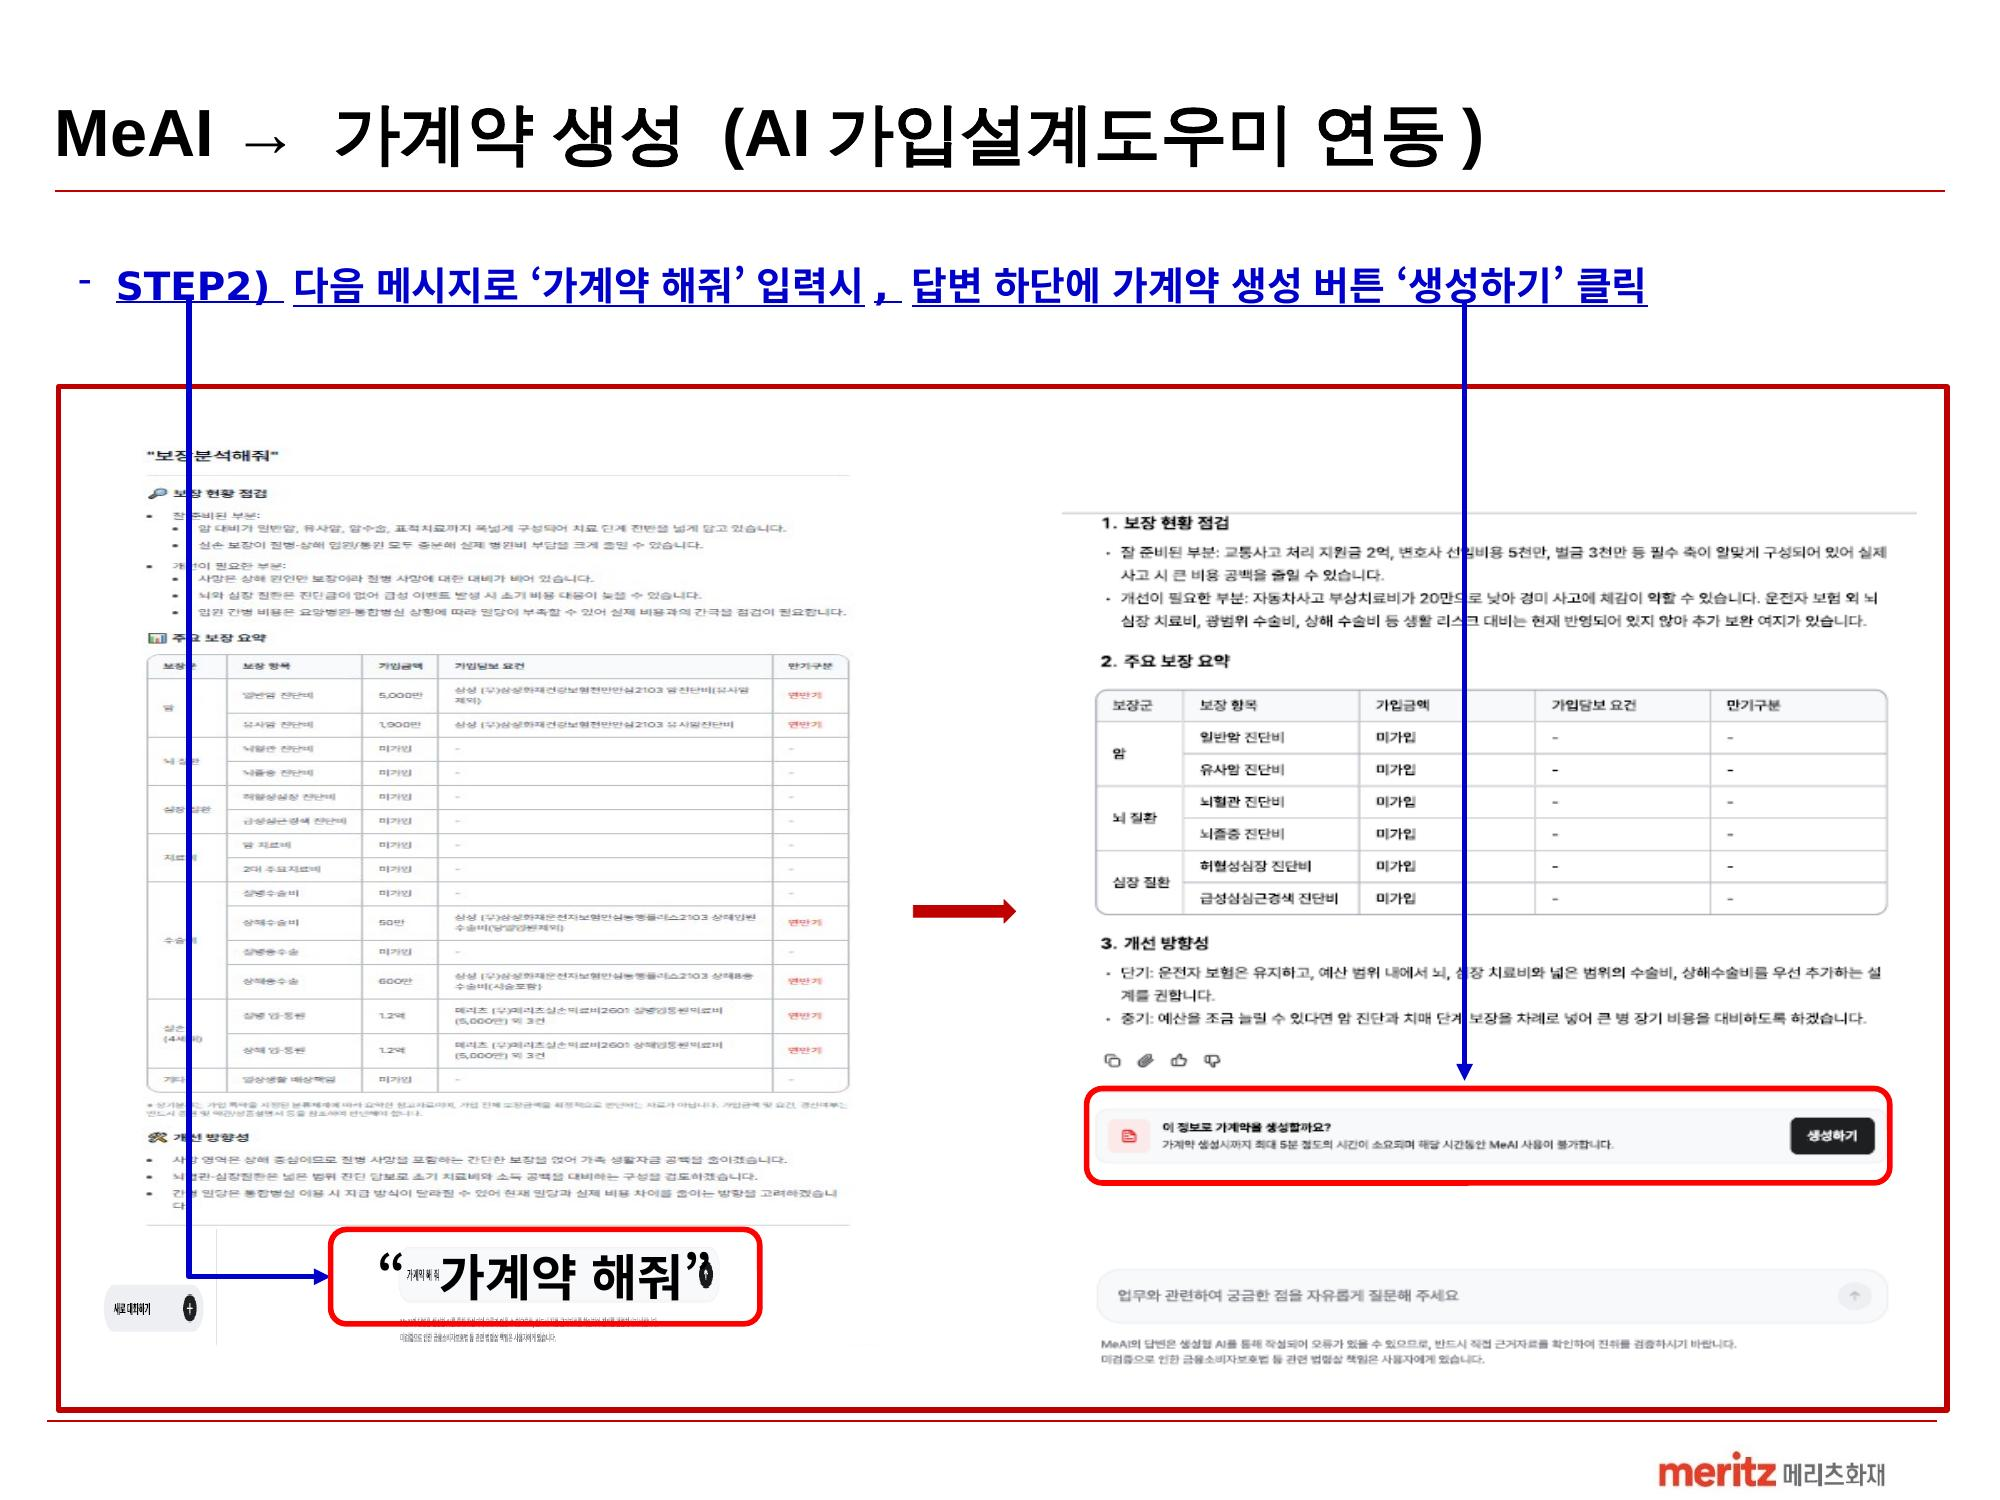
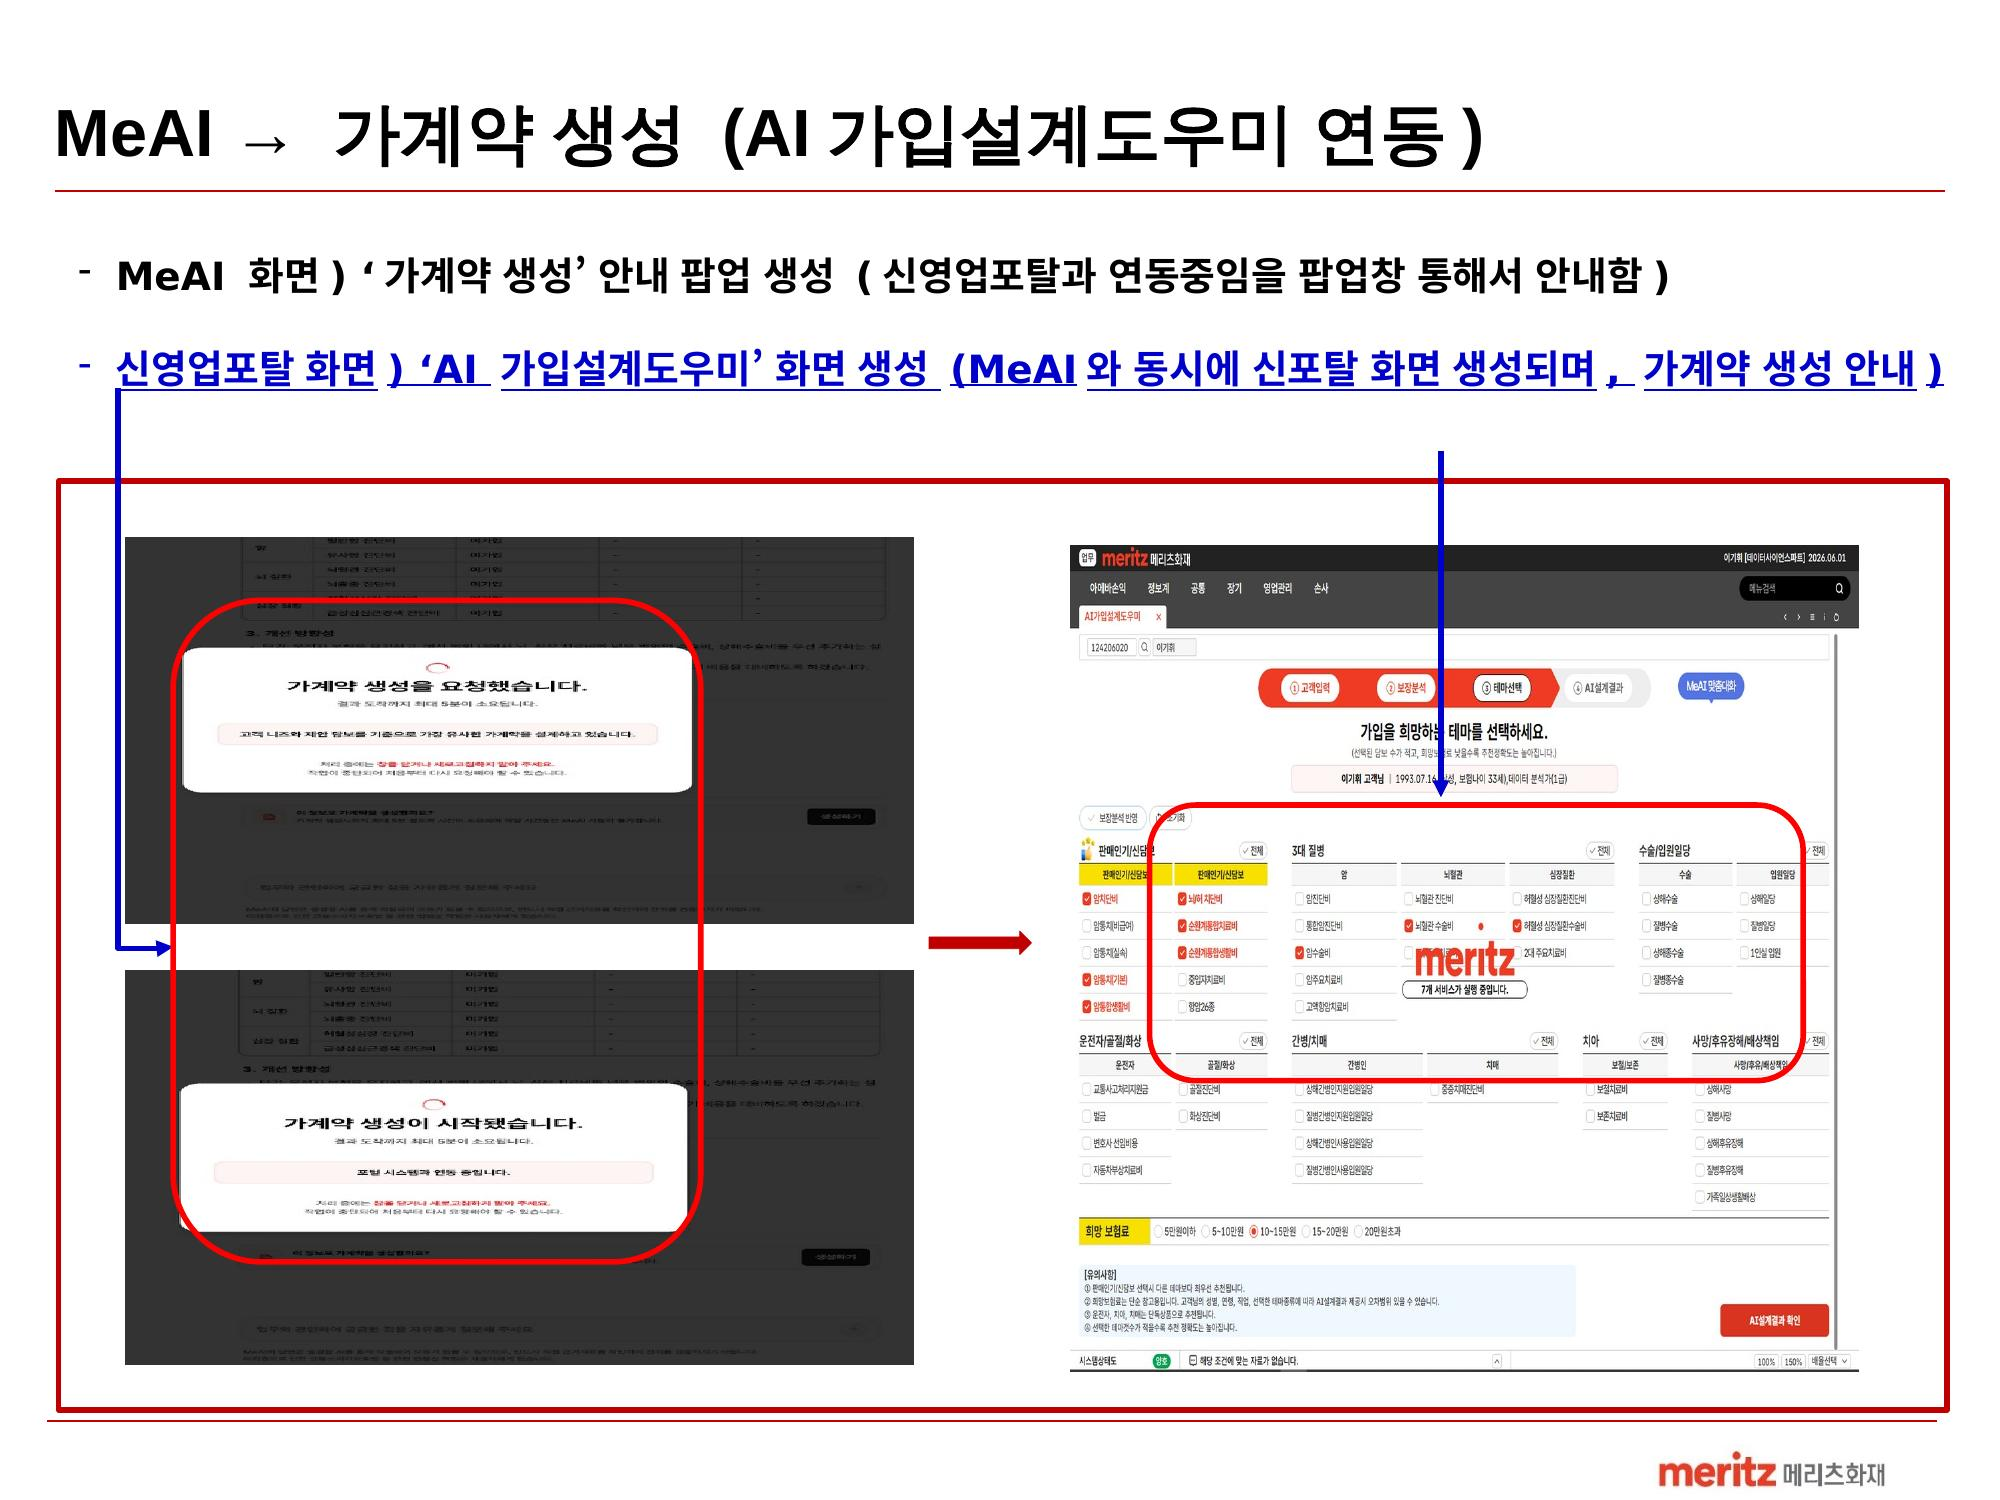
Add files via upload

Changed region(s): [[0.031, 0.1533, 0.992, 0.92], [0.0, 0.276, 0.031, 0.3067]]

diff --git a/index.html b/index.html
@@ -13,6 +13,7 @@
       min-height: 100vh;
     }
 
+    /* ── HEADER ── */
     .header {
       background: #C8001E;
       padding: 20px 24px 18px;
@@ -53,6 +54,7 @@
       white-space: nowrap;
     }
 
+    /* ── HERO ── */
     .hero {
       background: linear-gradient(160deg, #b0001a 0%, #E8001D 55%, #ff4d6d 100%);
       color: white;
@@ -74,7 +76,7 @@
     .hero-steps {
       display: flex;
       justify-content: center;
-      gap: 6px;
+      gap: 8px;
       margin-top: 22px;
       flex-wrap: wrap;
     }
@@ -88,6 +90,7 @@
       border-radius: 20px;
     }
 
+    /* ── SLIDES ── */
     .slides-wrapper {
       max-width: 1000px;
       margin: 0 auto;
@@ -129,6 +132,7 @@
       justify-content: center;
       flex-shrink: 0;
     }
+    .slide-info {}
     .slide-title {
       font-size: 14px;
       font-weight: 700;
@@ -142,6 +146,7 @@
 
     .slide-img-wrap {
       background: #fafafa;
+      padding: 0;
       line-height: 0;
     }
     .slide-img {
@@ -152,6 +157,7 @@
     }
     .slide-img:hover { opacity: 0.95; }
 
+    /* ── LIGHTBOX ── */
     .lightbox {
       display: none;
       position: fixed;
@@ -182,6 +188,7 @@
     }
     .lightbox-close:hover { opacity: 1; }
 
+    /* ── FOOTER ── */
     .footer {
       background: #1a1a1a;
       color: #888;
@@ -195,85 +202,76 @@
 </head>
 <body>
 
+  <!-- Header -->
   <div class="header">
     <span class="header-logo">meritz</span>
     <div class="header-divider"></div>
     <span class="header-title">MeAI 서비스 공지</span>
-    <span class="header-badge">신규기능 안내</span>
+    <span class="header-badge">신기능 안내</span>
   </div>
 
+  <!-- Hero -->
   <div class="hero">
     <h1>MeAI → 가계약 생성<br>AI가입설계도우미 연동</h1>
     <p>MeAI에서 가계약을 직접 생성하고<br>신영업포탈 AI가입설계도우미와 연동되는 프로세스를 안내합니다.</p>
     <div class="hero-steps">
-      <span class="step-chip">STEP 1 · 보장분석 요청</span>
-      <span class="step-chip">STEP 2 · 가계약 생성하기</span>
-      <span class="step-chip">STEP 3 · 팝업 확인 &amp; 포탈 연동</span>
-      <span class="step-chip">STEP 4 · 가계약 구성 요약</span>
+      <span class="step-chip">① 가계약 생성하기</span>
+      <span class="step-chip">② 팝업 확인 & 포탈 연동</span>
+      <span class="step-chip">③ 가계약 구성 요약</span>
     </div>
   </div>
 
+  <!-- Slides -->
   <div class="slides-wrapper">
 
     <div class="slide-card">
       <div class="slide-header">
         <div class="slide-num">1</div>
-        <div>
-          <div class="slide-title">STEP 1 · 보장분석 요청</div>
-          <div class="slide-desc">MeAI '맞춤대화' 채팅창에서 '보장분석 해줘' 입력</div>
+        <div class="slide-info">
+          <div class="slide-title">가계약 생성하기 버튼 클릭</div>
+          <div class="slide-desc">MeAI '맞춤대화' 채팅창 → '가계약 해줘' 입력 → 답변 하단 '생성하기' 클릭</div>
         </div>
       </div>
       <div class="slide-img-wrap">
-        <img class="slide-img" src="slide-1.jpg" alt="슬라이드 1" onclick="openLightbox(this.src)">
+        <img class="slide-img" src="slide-1.jpg" alt="슬라이드 1 - 가계약 생성하기" onclick="openLightbox(this.src)">
       </div>
     </div>
 
     <div class="slide-card">
       <div class="slide-header">
         <div class="slide-num">2</div>
-        <div>
-          <div class="slide-title">STEP 2 · 가계약 생성하기 버튼 클릭</div>
-          <div class="slide-desc">'가계약 해줘' 입력 → 답변 하단 '생성하기' 클릭</div>
+        <div class="slide-info">
+          <div class="slide-title">가계약 생성 안내 팝업 & 신영업포탈 연동</div>
+          <div class="slide-desc">MeAI 팝업 생성 → 신영업포탈 'AI 가입설계도우미' 화면과 동시 생성</div>
         </div>
       </div>
       <div class="slide-img-wrap">
-        <img class="slide-img" src="slide-2.jpg" alt="슬라이드 2" onclick="openLightbox(this.src)">
+        <img class="slide-img" src="slide-2.jpg" alt="슬라이드 2 - 팝업 및 포탈 연동" onclick="openLightbox(this.src)">
       </div>
     </div>
 
     <div class="slide-card">
       <div class="slide-header">
         <div class="slide-num">3</div>
-        <div>
-          <div class="slide-title">STEP 3 · 가계약 생성 안내 팝업 &amp; 신영업포탈 연동</div>
-          <div class="slide-desc">MeAI 팝업 생성 → 신영업포탈 'AI 가입설계도우미' 화면 동시 생성</div>
+        <div class="slide-info">
+          <div class="slide-title">가계약 생성 화면 이동 & 구성 요약</div>
+          <div class="slide-desc">신영업포탈 → 가계약 생성 화면 이동 / MeAI → 가계약 구성 요약 화면 이동</div>
         </div>
       </div>
       <div class="slide-img-wrap">
-        <img class="slide-img" src="slide-3.jpg" alt="슬라이드 3" onclick="openLightbox(this.src)">
-      </div>
-    </div>
-
-    <div class="slide-card">
-      <div class="slide-header">
-        <div class="slide-num">4</div>
-        <div>
-          <div class="slide-title">STEP 4 · 가계약 생성 화면 이동 &amp; 구성 요약</div>
-          <div class="slide-desc">신영업포탈 → 가계약 생성 화면 / MeAI → 가계약 구성 요약 화면</div>
-        </div>
-      </div>
-      <div class="slide-img-wrap">
-        <img class="slide-img" src="slide-4.jpg" alt="슬라이드 4" onclick="openLightbox(this.src)">
+        <img class="slide-img" src="slide-3.jpg" alt="슬라이드 3 - 가계약 구성 요약" onclick="openLightbox(this.src)">
       </div>
     </div>
 
   </div>
 
+  <!-- Lightbox -->
   <div class="lightbox" id="lightbox" onclick="closeLightbox()">
     <span class="lightbox-close" onclick="closeLightbox()">×</span>
     <img id="lightbox-img" src="" alt="확대 보기">
   </div>
 
+  <!-- Footer -->
   <div class="footer">
     <strong>meritz</strong> 메리츠화재 · MeAI 서비스 공지<br>
     문의사항은 담당 부서로 연락해 주세요.
